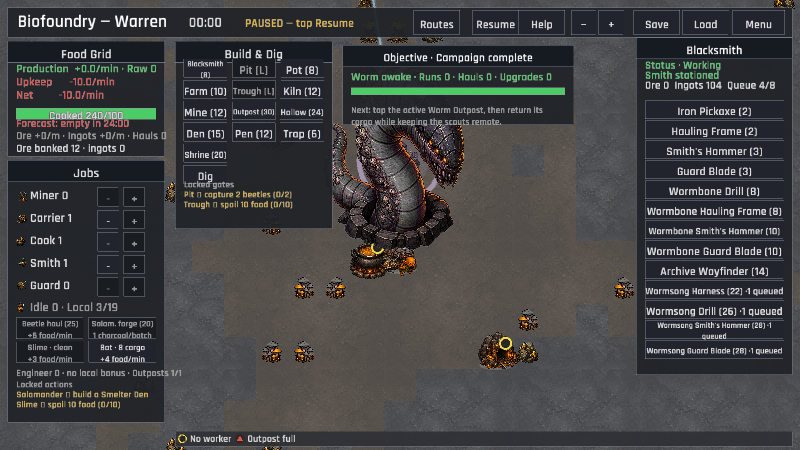
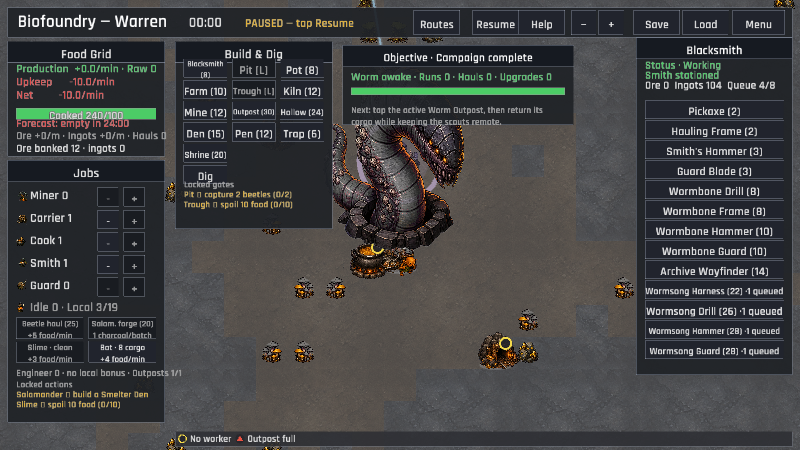
The forge speaks plainly in a crowded room (compact recipe labels)
The compact Blacksmith now gives the complete Wormsong tier usable 30-pixel actions, but long full recipe and gate names still crowded the narrow buttons. Compact labels now use concise equipment names and milestone markers such as Wormbone Hammer · Charter and Wormsong Guard, while desktop cards retain the full names and exact unlock explanations.

Focused equipment-label tests cover compact and desktop text. Refreshed compact Blacksmith, Wormbone, and Muster captures show the shortened labels, and the focused 800x450 touch audit reports every recipe at 30 pixels without grown-target overlap. Verified with 500 all-target tests, Clippy with warnings denied, formatting, source limits, and publish.ps1.

Changed region(s): [[0.8125, 0.4356, 0.9688, 0.5911], [0.8125, 0.7156, 0.9688, 0.8089], [0.8438, 0.2178, 0.9375, 0.28]]

diff --git a/src/ui/hud/inspect/workstations.rs b/src/ui/hud/inspect/workstations.rs
@@ -19,6 +19,64 @@ pub(super) fn equipment_lock_label(
     }
 }
 
+pub(super) fn blacksmith_equipment_label(
+    data: &GameData,
+    equipment: &crate::data::EquipmentDef,
+    compact: bool,
+    unlocked: bool,
+    queued: usize,
+    banked: u32,
+) -> String {
+    let name = if compact {
+        compact_equipment_name(&equipment.id, &equipment.name)
+    } else {
+        equipment.name.as_str()
+    };
+    let mut label = if unlocked {
+        format!("{name} ({})", equipment.cost_ingots)
+    } else {
+        let lock = if compact {
+            compact_equipment_lock_label(&equipment.id).to_owned()
+        } else {
+            equipment_lock_label(data, equipment)
+        };
+        format!("{name} [L] · {lock}")
+    };
+    if unlocked && queued > 0 {
+        label.push_str(&format!("  ·{queued} queued"));
+    } else if unlocked && banked > 0 {
+        label.push_str(&format!("  ·{banked} ready"));
+    }
+    label
+}
+
+fn compact_equipment_name<'a>(id: &str, full_name: &'a str) -> &'a str {
+    match id {
+        "iron_pickaxe" => "Pickaxe",
+        "wormbone_hauling_frame" => "Wormbone Frame",
+        "wormbone_smiths_hammer" => "Wormbone Hammer",
+        "wormbone_guard_blade" => "Wormbone Guard",
+        "wormsong_smiths_hammer" => "Wormsong Hammer",
+        "wormsong_guard_blade" => "Wormsong Guard",
+        _ => full_name,
+    }
+}
+
+fn compact_equipment_lock_label(id: &str) -> &'static str {
+    match id {
+        "wormbone_drill"
+        | "wormbone_hauling_frame"
+        | "wormbone_smiths_hammer"
+        | "wormbone_guard_blade" => "Charter",
+        "archive_wayfinder" => "Archive page",
+        "wormsong_harness"
+        | "wormsong_drill"
+        | "wormsong_smiths_hammer"
+        | "wormsong_guard_blade" => "Muster",
+        _ => "Unlock required",
+    }
+}
+
 pub(super) fn blacksmith_queue_available(building: &Building, data: &GameData) -> bool {
     building.orders.len() < data.balance.order_queue_size
 }

diff --git a/src/ui/hud/inspect.rs b/src/ui/hud/inspect.rs
@@ -41,10 +41,12 @@ use status::{
     transit_payload_line, waste_inspection_hint,
 };
 use study::{study_adaptation_line, study_rate_per_min};
+#[cfg(test)]
+use workstations::equipment_lock_label;
 use workstations::{
-    blacksmith_input_hint, blacksmith_queue_available, cook_pot_input_hint, equipment_lock_label,
-    kiln_input_hint, local_smelter_staffed_at, local_smelter_worker_at, local_smith_staffed_at,
-    local_smith_worker_at, smelter_input_hint,
+    blacksmith_equipment_label, blacksmith_input_hint, blacksmith_queue_available,
+    cook_pot_input_hint, kiln_input_hint, local_smelter_staffed_at, local_smelter_worker_at,
+    local_smith_staffed_at, local_smith_worker_at, smelter_input_hint,
 };
 
 const LOCKED_SPECIALIST_MARKER: &str = "[L]";
@@ -333,20 +335,7 @@ pub(super) fn draw_inspect_panel(
                 let banked = session.economy.gear_stock.get(&eq.id).copied().unwrap_or(0);
                 let queued = building.orders.iter().filter(|o| **o == eq.id).count();
                 let unlocked = session.equipment_unlocked(eq);
-                let mut label = if unlocked {
-                    format!("{} ({})", eq.name, eq.cost_ingots)
-                } else {
-                    format!(
-                        "{} {LOCKED_SPECIALIST_MARKER} · {}",
-                        eq.name,
-                        equipment_lock_label(data, eq)
-                    )
-                };
-                if unlocked && queued > 0 {
-                    label.push_str(&format!("  ·{queued} queued"));
-                } else if unlocked && banked > 0 {
-                    label.push_str(&format!("  ·{banked} ready"));
-                }
+                let label = blacksmith_equipment_label(data, eq, compact, unlocked, queued, banked);
                 if hud_button(
                     Rect::new(x, y, bw, inspect_button_height),
                     &label,

diff --git a/src/ui/hud/inspect/tests/equipment.rs b/src/ui/hud/inspect/tests/equipment.rs
@@ -1,4 +1,4 @@
-use super::super::{equipment_lock_label, inspection_button_metrics};
+use super::super::{blacksmith_equipment_label, equipment_lock_label, inspection_button_metrics};
 use crate::data::GameData;
 
 #[test]
@@ -24,6 +24,27 @@ fn blacksmith_uses_the_exact_muster_gate_for_wormsong_harness() {
     assert_eq!(
         equipment_lock_label(&data, harness),
         "Needs hold 1 Worm Road Muster"
+    );
+}
+
+#[test]
+fn compact_blacksmith_labels_keep_recipe_and_gate_text_readable() {
+    let data = GameData::load().expect("embedded game data");
+    let harness = data
+        .equipment_def("wormsong_harness")
+        .expect("Wormsong Harness data");
+
+    assert_eq!(
+        blacksmith_equipment_label(&data, harness, true, false, 0, 0),
+        "Wormsong Harness [L] · Muster"
+    );
+    assert_eq!(
+        blacksmith_equipment_label(&data, harness, true, true, 1, 0),
+        "Wormsong Harness (22)  ·1 queued"
+    );
+    assert_eq!(
+        blacksmith_equipment_label(&data, harness, false, false, 0, 0),
+        "Wormsong Harness [L] · Needs hold 1 Worm Road Muster"
     );
 }
 
